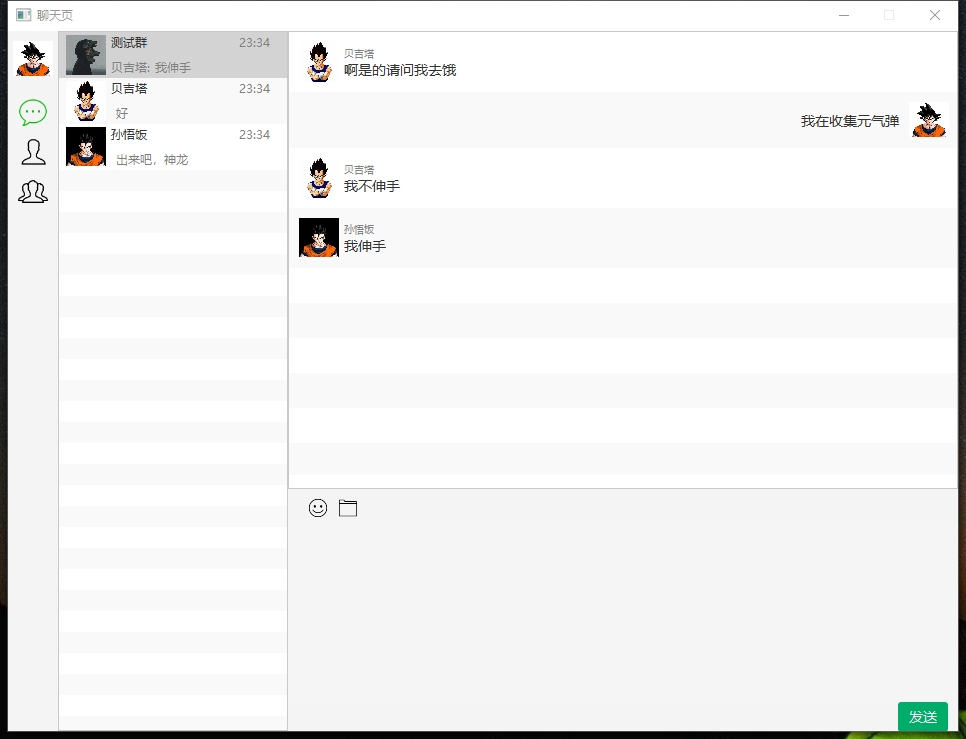
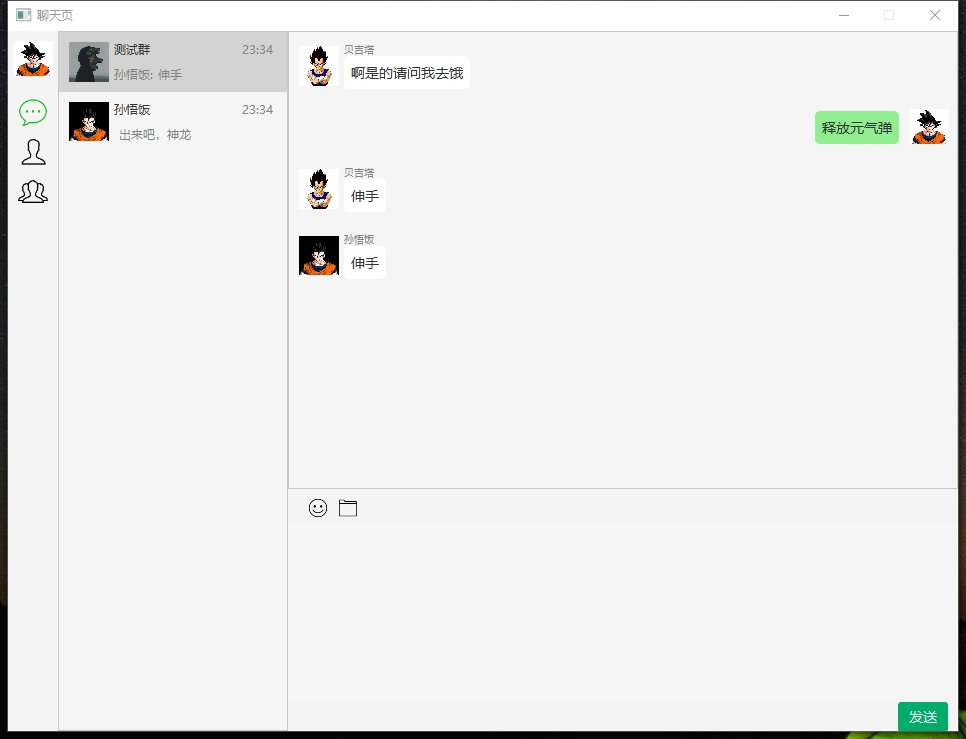
客户端样式调整

Changed region(s): [[0.0621, 0.0311, 0.4969, 0.249], [0.8385, 0.1245, 0.9938, 0.2179], [0.3106, 0.2179, 0.4037, 0.3735]]

diff --git a/client/src/main/resources/css/UserSession.css b/client/src/main/resources/css/UserSession.css
@@ -6,7 +6,32 @@
     -fx-scale-x: 0;
 }
 
-.user-session-listview{
-    -fx-padding: 1px;
-    -fx-selection-bar: lightgrey;
+
+.list-view .scroll-bar:horizontal .increment-arrow,
+.list-view .scroll-bar:horizontal .decrement-arrow,
+.list-view .scroll-bar:horizontal .increment-button,
+.list-view .scroll-bar:horizontal .decrement-button {
+    -fx-padding:0;
+}
+
+.list-view .scroll-bar:vertical .increment-arrow,
+.list-view .scroll-bar:vertical .decrement-arrow,
+.list-view .scroll-bar:vertical .increment-button,
+.list-view .scroll-bar:vertical .decrement-button {
+    -fx-padding:0;
+}
+
+.user-session-listview .list-cell:selected:odd,
+.user-session-listview .list-cell:selected:even{
+    -fx-background-color: lightgrey;
+}
+
+.user-session-listview .list-cell:odd{
+    -fx-background-color: #F5F5F5;
+    -fx-padding: 10px;
+}
+
+.user-session-listview .list-cell:even{
+    -fx-background-color: #F5F5F5;
+    -fx-padding: 10px;
 }

diff --git a/client/src/main/resources/css/UserGroup.css b/client/src/main/resources/css/UserGroup.css
@@ -6,7 +6,32 @@
     -fx-scale-x: 0;
 }
 
-.user-group-listview{
-    -fx-padding: 1px;
-    -fx-selection-bar: lightgrey;
+
+.list-view .scroll-bar:horizontal .increment-arrow,
+.list-view .scroll-bar:horizontal .decrement-arrow,
+.list-view .scroll-bar:horizontal .increment-button,
+.list-view .scroll-bar:horizontal .decrement-button {
+    -fx-padding:0;
+}
+
+.list-view .scroll-bar:vertical .increment-arrow,
+.list-view .scroll-bar:vertical .decrement-arrow,
+.list-view .scroll-bar:vertical .increment-button,
+.list-view .scroll-bar:vertical .decrement-button {
+    -fx-padding:0;
+}
+
+.user-group-listview-listview .list-cell:selected:odd,
+.user-group-listview .list-cell:selected:even{
+    -fx-background-color: lightgrey;
+}
+
+.user-group-listview .list-cell:odd{
+    -fx-background-color: #F5F5F5;
+    -fx-padding: 10px;
+}
+
+.user-group-listview .list-cell:even{
+    -fx-background-color: #F5F5F5;
+    -fx-padding: 10px;
 }

diff --git a/client/src/main/resources/css/UserFriend.css b/client/src/main/resources/css/UserFriend.css
@@ -6,7 +6,32 @@
     -fx-scale-x: 0;
 }
 
-.user-friend-listview{
-    -fx-padding: 1px;
-    -fx-selection-bar: lightgrey;
+
+.list-view .scroll-bar:horizontal .increment-arrow,
+.list-view .scroll-bar:horizontal .decrement-arrow,
+.list-view .scroll-bar:horizontal .increment-button,
+.list-view .scroll-bar:horizontal .decrement-button {
+    -fx-padding:0;
+}
+
+.list-view .scroll-bar:vertical .increment-arrow,
+.list-view .scroll-bar:vertical .decrement-arrow,
+.list-view .scroll-bar:vertical .increment-button,
+.list-view .scroll-bar:vertical .decrement-button {
+    -fx-padding:0;
+}
+
+.user-friend-listview .list-cell:selected:odd,
+.user-friend-listview .list-cell:selected:even{
+    -fx-background-color: lightgrey;
+}
+
+.user-friend-listview .list-cell:odd{
+    -fx-background-color: #F5F5F5;
+    -fx-padding: 10px;
+}
+
+.user-friend-listview .list-cell:even{
+    -fx-background-color: #F5F5F5;
+    -fx-padding: 10px;
 }

diff --git a/client/src/main/resources/css/Chat.css b/client/src/main/resources/css/Chat.css
@@ -6,8 +6,23 @@
     -fx-scale-x: 0;
 }
 
+.list-view .scroll-bar:horizontal .increment-arrow,
+.list-view .scroll-bar:horizontal .decrement-arrow,
+.list-view .scroll-bar:horizontal .increment-button,
+.list-view .scroll-bar:horizontal .decrement-button {
+    -fx-padding:0;
+}
+
+.list-view .scroll-bar:vertical .increment-arrow,
+.list-view .scroll-bar:vertical .decrement-arrow,
+.list-view .scroll-bar:vertical .increment-button,
+.list-view .scroll-bar:vertical .decrement-button {
+    -fx-padding:0;
+}
+
 .list-cell{
     -fx-padding: 10px;
+    -fx-background-color: #F5F5F5;
 }
 
 .send-button{

diff --git a/client/src/main/java/org/imtp/client/controller/ChatItemController.java b/client/src/main/java/org/imtp/client/controller/ChatItemController.java
@@ -9,9 +9,8 @@ import javafx.scene.Node;
 import javafx.scene.control.Label;
 import javafx.scene.image.Image;
 import javafx.scene.image.ImageView;
-import javafx.scene.layout.HBox;
-import javafx.scene.layout.Priority;
-import javafx.scene.layout.VBox;
+import javafx.scene.layout.*;
+import javafx.scene.paint.Color;
 import org.imtp.client.entity.ChatItemEntity;
 import org.imtp.common.enums.DeliveryMethod;
 
@@ -62,11 +61,14 @@ public class ChatItemController extends AbstractController{
             Platform.runLater(() -> {
                 chatItemImageView.setImage(new Image(chatItemEntity.getAvatar()));
                 chatItemLabel.setText(chatItemEntity.getContent());
+                chatItemLabel.setPadding(new Insets(7,7,7,7));
                 ObservableList<Node> children = chatItemHBox.getChildren();
                 children.clear();
                 ObservableList<Node> chatItemVBoxChildren = chatItemVBox.getChildren();
                 chatItemVBoxChildren.clear();
+                CornerRadii cornerRadii = new CornerRadii(5);
                 if (!chatItemEntity.isSelf()){
+                    chatItemLabel.setBackground(new Background(new BackgroundFill(Color.WHITE,cornerRadii,Insets.EMPTY)));
                     chatItemHBox.setPadding(new Insets(0,0,0,0));
                     chatItemHBox.setAlignment(Pos.CENTER_LEFT);
                     if (chatItemEntity.getDeliveryMethod().equals(DeliveryMethod.GROUP)){
@@ -82,6 +84,7 @@ public class ChatItemController extends AbstractController{
                     imageView.imageProperty().bind(chatItemEntity.imageProperty());
                     chatItemHBox.setPadding(new Insets(0,20,0,0));
                     chatItemHBox.setAlignment(Pos.CENTER_RIGHT);
+                    chatItemLabel.setBackground(new Background(new BackgroundFill(Color.LIGHTGREEN,cornerRadii,Insets.EMPTY)));
                     ObservableList<Node> cd = chatItemLabelHBox.getChildren();
                     cd.clear();
                     cd.add(imageView);

diff --git a/client/src/main/java/org/imtp/client/controller/UserFriendController.java b/client/src/main/java/org/imtp/client/controller/UserFriendController.java
@@ -6,17 +6,13 @@ import javafx.scene.Node;
 import javafx.scene.control.ListView;
 import javafx.scene.layout.Pane;
 import lombok.extern.slf4j.Slf4j;
-import org.imtp.client.component.ClassPathImageUrlParse;
-import org.imtp.client.component.ImageUrlParse;
 import org.imtp.client.constant.Callback;
 import org.imtp.client.constant.FXMLResourceConstant;
 import org.imtp.client.entity.FriendEntity;
 import org.imtp.client.util.Tuple2;
 import org.imtp.common.packet.FriendshipResponse;
-import org.imtp.common.packet.GroupRelationshipResponse;
 import org.imtp.common.packet.base.Packet;
 import org.imtp.common.packet.body.UserFriendInfo;
-import org.imtp.common.packet.body.UserGroupInfo;
 
 import java.util.HashMap;
 import java.util.List;
@@ -49,6 +45,7 @@ public class UserFriendController extends AbstractController implements Callback
         userFriendInfoMap = new HashMap<>();
 
         friendListView.setCellFactory(c -> new UserFriendListCell());
+        friendListView.setFocusTraversable(false);
         friendListView.setOnMouseClicked(mouseEvent -> {
             FriendEntity friendEntity = friendListView.getSelectionModel().getSelectedItem();
             if (friendEntity == null){

diff --git a/client/src/main/java/org/imtp/client/controller/UserSessionController.java b/client/src/main/java/org/imtp/client/controller/UserSessionController.java
@@ -54,6 +54,7 @@ public class UserSessionController extends AbstractController{
         userSessionEntityMap = new HashMap<>();
         //会话框设置
         listView.setCellFactory(c -> new UserSessionListCell());
+        listView.setFocusTraversable(false);
         //设置鼠标监听
         listView.setOnMouseClicked(mouseEvent -> {
             SessionEntity sessionEntity = listView.getSelectionModel().getSelectedItem();
@@ -106,6 +107,10 @@ public class UserSessionController extends AbstractController{
                     }
                     sessionEntity.setLastSendMsgUserId(packet.getSender());
                     sessionEntity.setLastMsg(textMessage.getMessage());
+                    if (packet.isGroup()){
+                        UserFriendInfo groupUserInfo = userGroupController.findGroupUserInfo(packet.getReceiver(), packet.getSender());
+                        sessionEntity.setLastUserName(groupUserInfo.getNickname());
+                    }
                     updateUserSessionNode(sessionEntity);
                 }
                 break;

diff --git a/client/src/main/java/org/imtp/client/controller/UserGroupController.java b/client/src/main/java/org/imtp/client/controller/UserGroupController.java
@@ -6,8 +6,6 @@ import javafx.scene.Node;
 import javafx.scene.control.ListView;
 import javafx.scene.layout.Pane;
 import lombok.extern.slf4j.Slf4j;
-import org.imtp.client.component.ClassPathImageUrlParse;
-import org.imtp.client.component.ImageUrlParse;
 import org.imtp.client.constant.Callback;
 import org.imtp.client.constant.FXMLResourceConstant;
 import org.imtp.client.entity.GroupEntity;
@@ -54,6 +52,7 @@ public class UserGroupController extends AbstractController implements Callback<
         groupUserInfoMap = new HashMap<>();
 
         groupListView.setCellFactory(c -> new UserGroupListCell());
+        groupListView.setFocusTraversable(false);
         groupListView.setOnMouseClicked(mouseEvent -> {
             GroupEntity groupEntity = groupListView.getSelectionModel().getSelectedItem();
             if (groupEntity == null){

diff --git a/client/src/main/java/org/imtp/client/controller/ChatController.java b/client/src/main/java/org/imtp/client/controller/ChatController.java
@@ -119,7 +119,7 @@ public class ChatController extends AbstractController{
             sendTextMessage();
         });
         chatListView.setCellFactory(c -> new ChatItemListCell());
-
+        chatListView.setFocusTraversable(false);
 
         chatEmoteIcon.setOnMouseClicked(mouseEvent -> {
             if (dialog == null){
